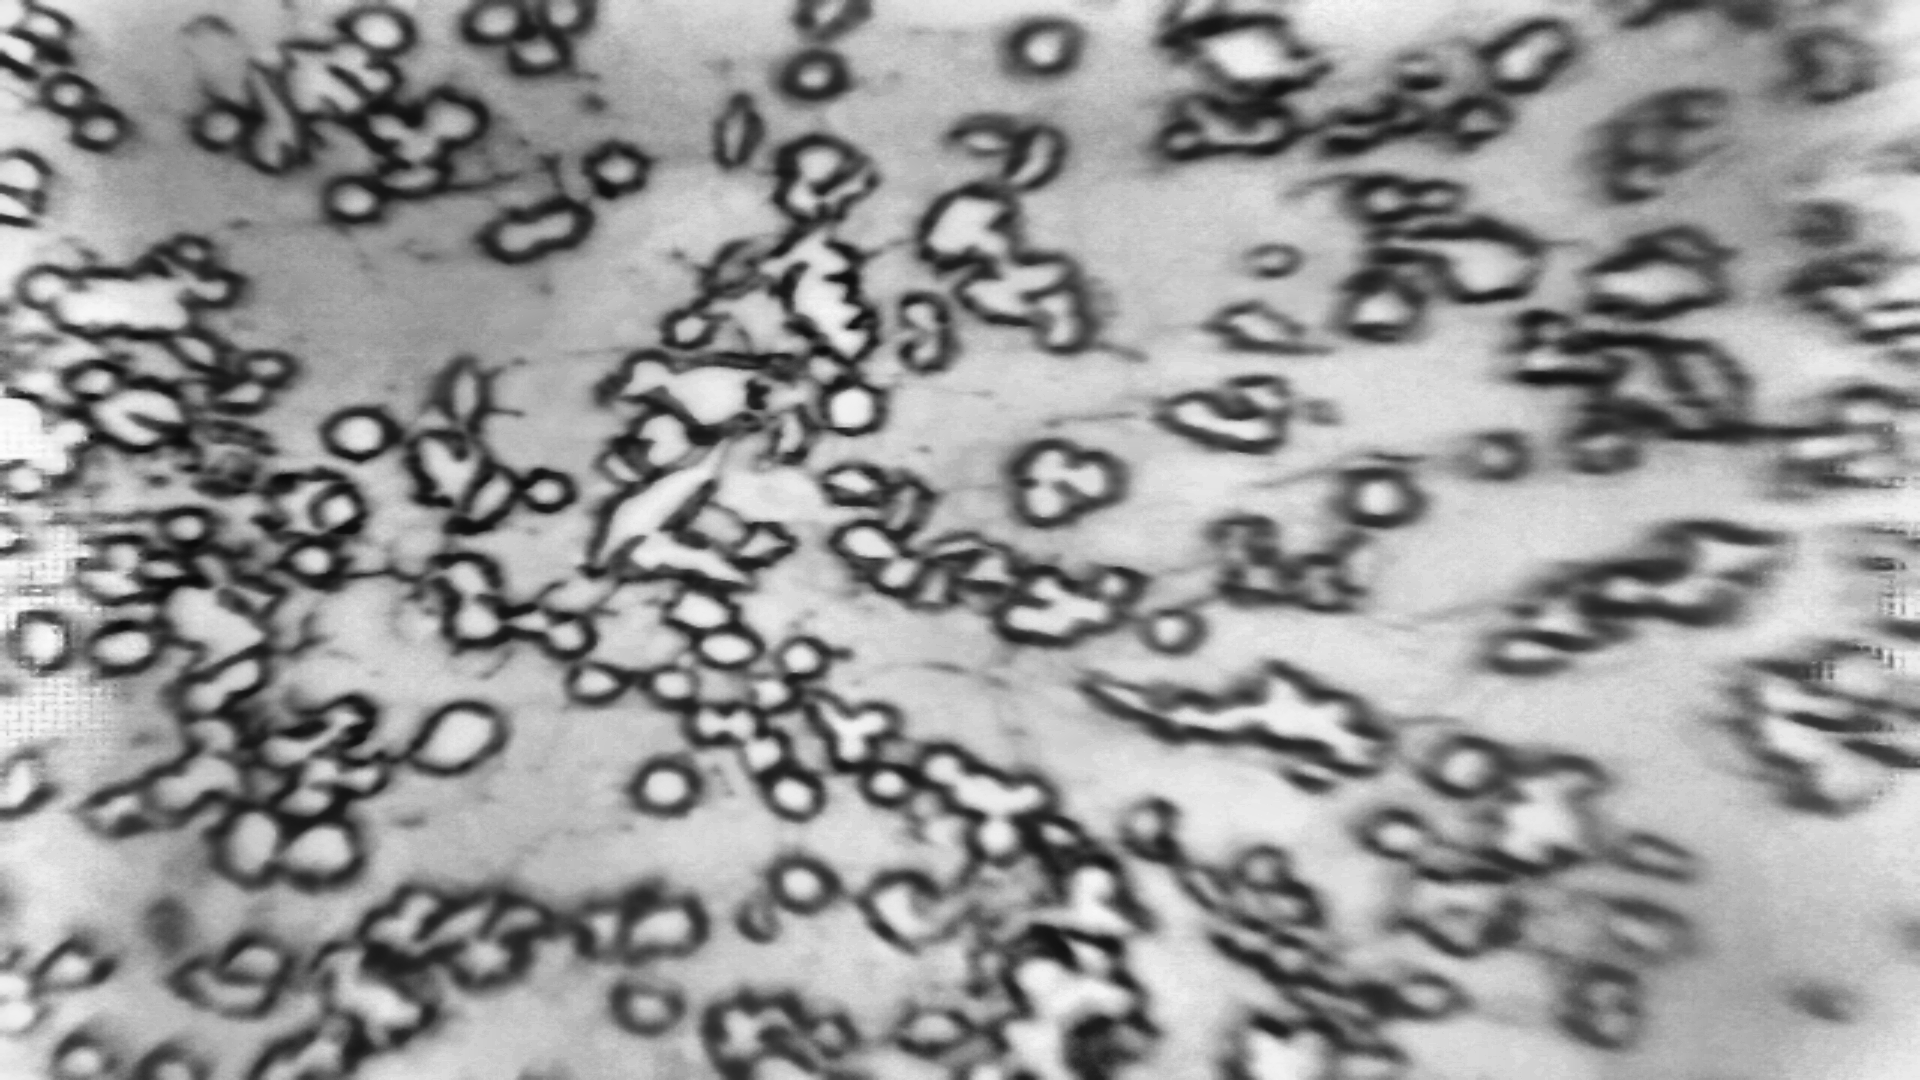
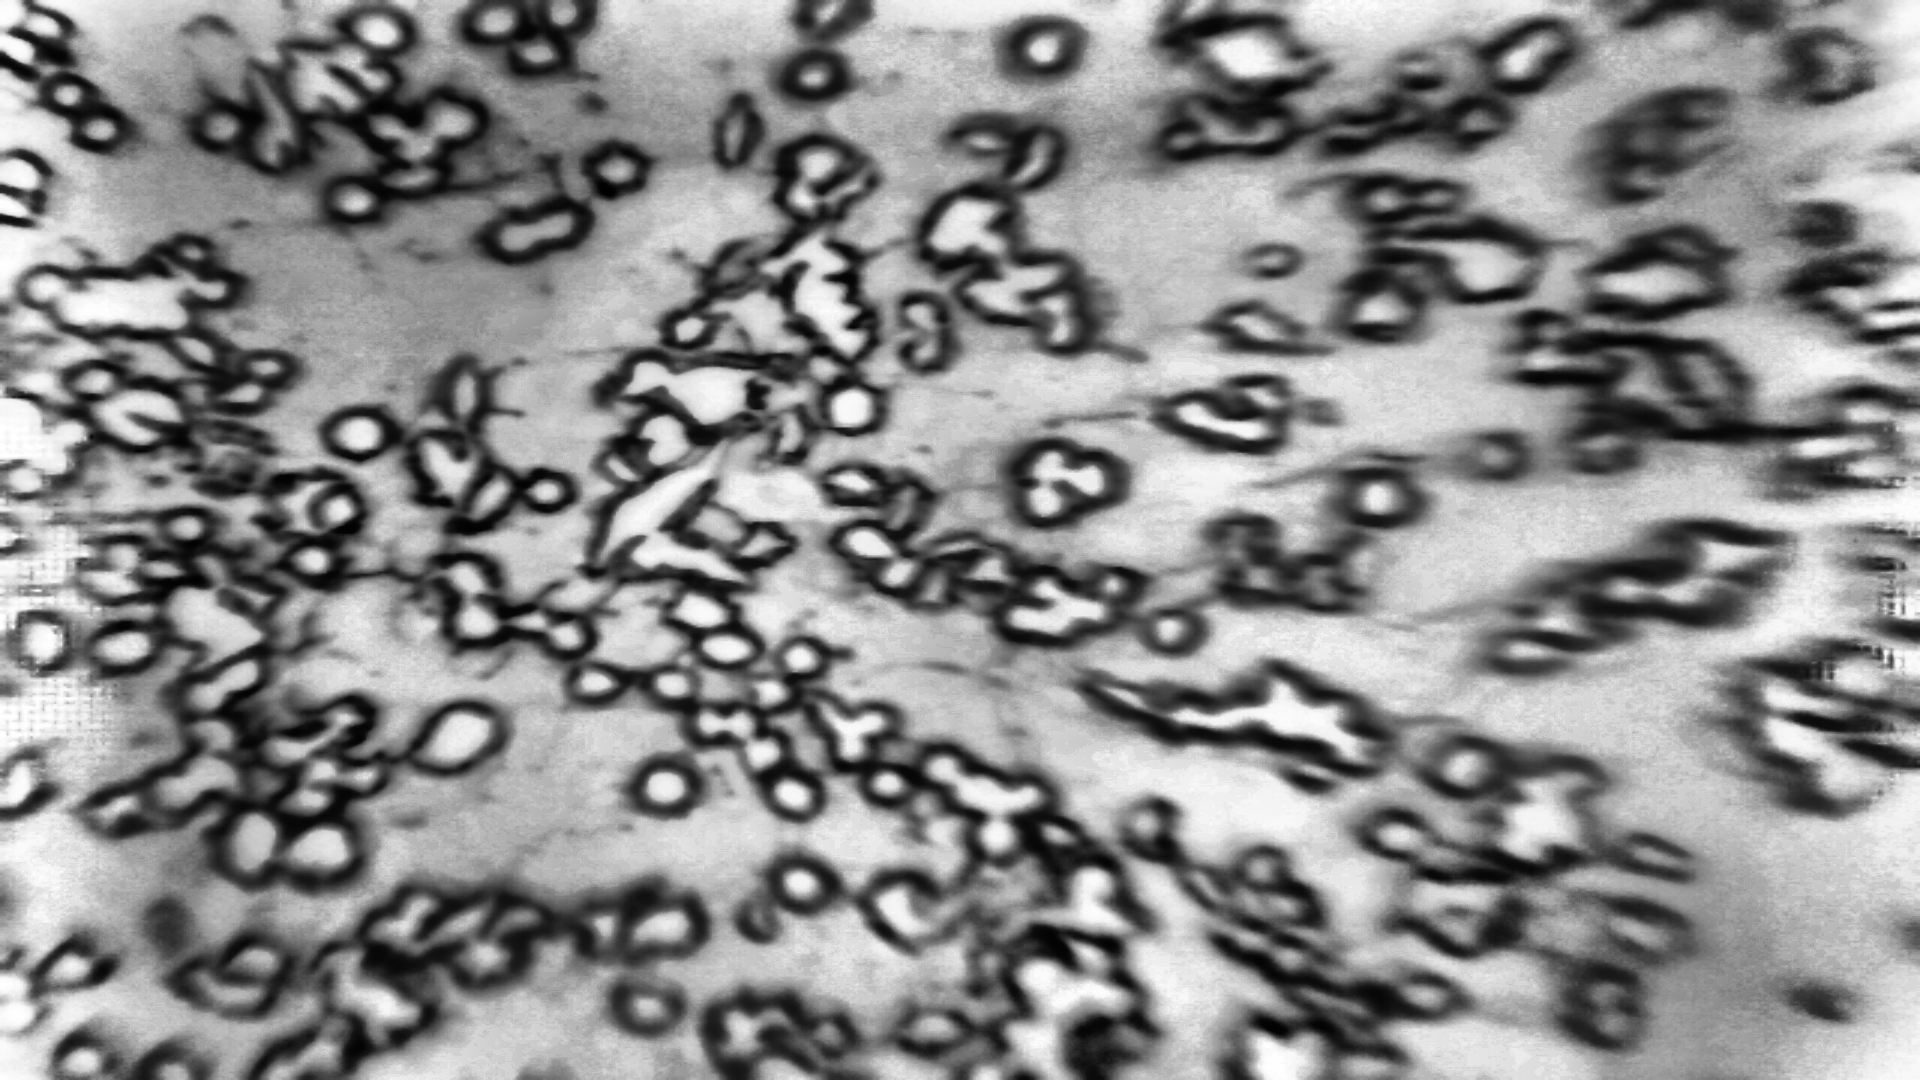
Beginnende code voor edge detection en closing

diff --git a/Edge_Detection.py b/Edge_Detection.py
@@ -1,5 +1,6 @@
 import cv2
-
+import numpy as np
+from matplotlib import pyplot as plt
 path = "C:/Users/20202619/OneDrive - TU Eindhoven/Vakken/CBL Microscopy/Python_Code_Microscope_Redux/test_1_Con_3.png"
 img = cv2.imread(path, cv2.IMREAD_GRAYSCALE)
 
@@ -7,7 +8,24 @@ img_blur = cv2.GaussianBlur(img, (3,3), 0)
 
 sobelxy = cv2.Sobel(src=img_blur, ddepth=cv2.CV_64F, dx=1, dy=1, ksize=15)
 
+ret, sobelxy = cv2.threshold(sobelxy,0,256,cv2.THRESH_BINARY)
+
+plt.hist(sobelxy.ravel(),256,[0,256])
+plt.title('Histogram for gray scale image')
+plt.show()
+
+kernel_begin = np.ones((9,9),np.uint8)
+#dilation = cv2.dilate(sobelxy,kernel,iterations = 1)
+closing_1 = cv2.morphologyEx(sobelxy, cv2.MORPH_CLOSE, kernel_begin)
+
+kernel_middle = np.ones((7,7),np.uint8)
+closing_2 = cv2.morphologyEx(closing_1, cv2.MORPH_CLOSE, kernel_middle)
+
+kernel_end = np.ones((10,10),np.uint8)
+closing_3 = cv2.morphologyEx(closing_1, cv2.MORPH_CLOSE, kernel_end)
+
+
 while(True):
-    cv2.imshow('Test', sobelxy)
+    cv2.imshow('Test', closing_3)
     if cv2.waitKey(1) & 0xFF == ord('q'):
         break

diff --git a/Hist_Contrast_Test_Code.py b/Hist_Contrast_Test_Code.py
@@ -38,7 +38,7 @@ while(True):
         break
 
 
-clahe = cv2.createCLAHE(clipLimit=5.0, tileGridSize=(8, 8))
+clahe = cv2.createCLAHE(clipLimit=10.0, tileGridSize=(8, 8))
 cl2 = clahe.apply(img)
 
 File_Path_Con_2 = "C:/Users/20202619/OneDrive - TU Eindhoven/Vakken/CBL Microscopy/Python_Code_Microscope_Redux/test_1_Con_3.png"
